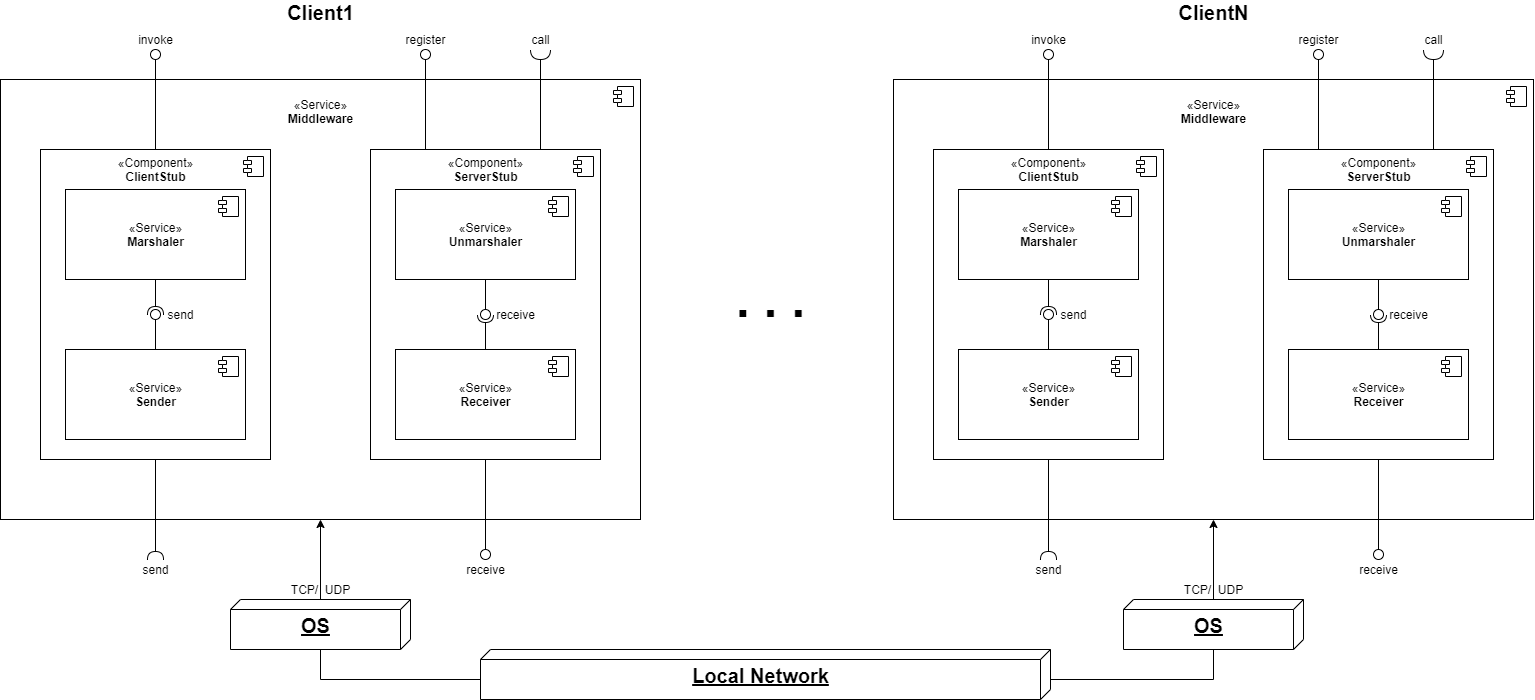
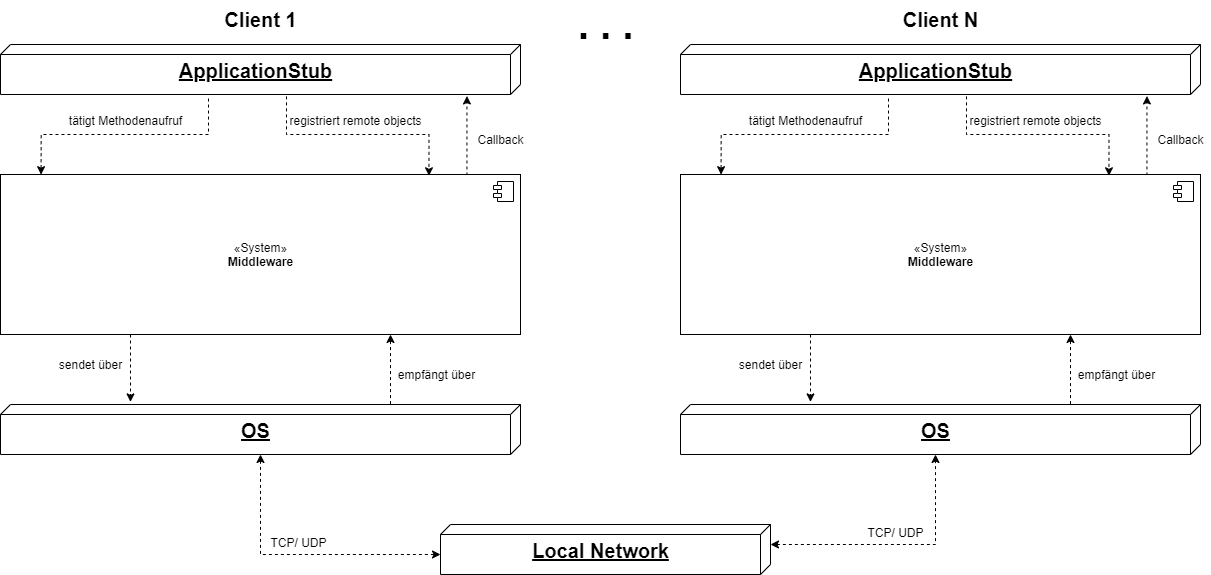
reworked technischer_trontext and Ebene1, added in doc

diff --git a/Doku/Dokumentation_Middleware.md b/Doku/Dokumentation_Middleware.md
@@ -46,11 +46,11 @@ contributors. Siehe <https://arc42.org>.
 
 ## Fachlicher Kontext {#_fachlicher_kontext}
 
-**\<Diagramm und/oder Tabelle>**
-
-**\<optional: Erläuterung der externen fachlichen Schnittstellen>**
+![Fachlicher_Trontext](./images/middleware_fachlicher_trontext.png)
 
 ## Technischer Kontext {#_technischer_kontext}
+
+![Technischer_Trontext](./images/middleware_technischer_trontext.png)
 
 **\<Diagramm oder Tabelle>**
 
@@ -65,6 +65,8 @@ contributors. Siehe <https://arc42.org>.
 ## Whitebox Gesamtsystem {#_whitebox_gesamtsystem}
 
 ***\<Übersichtsdiagramm>***
+
+![Middleware_Ebene1](./images/Middleware_Ebene1.png)
 
 Begründung
 
